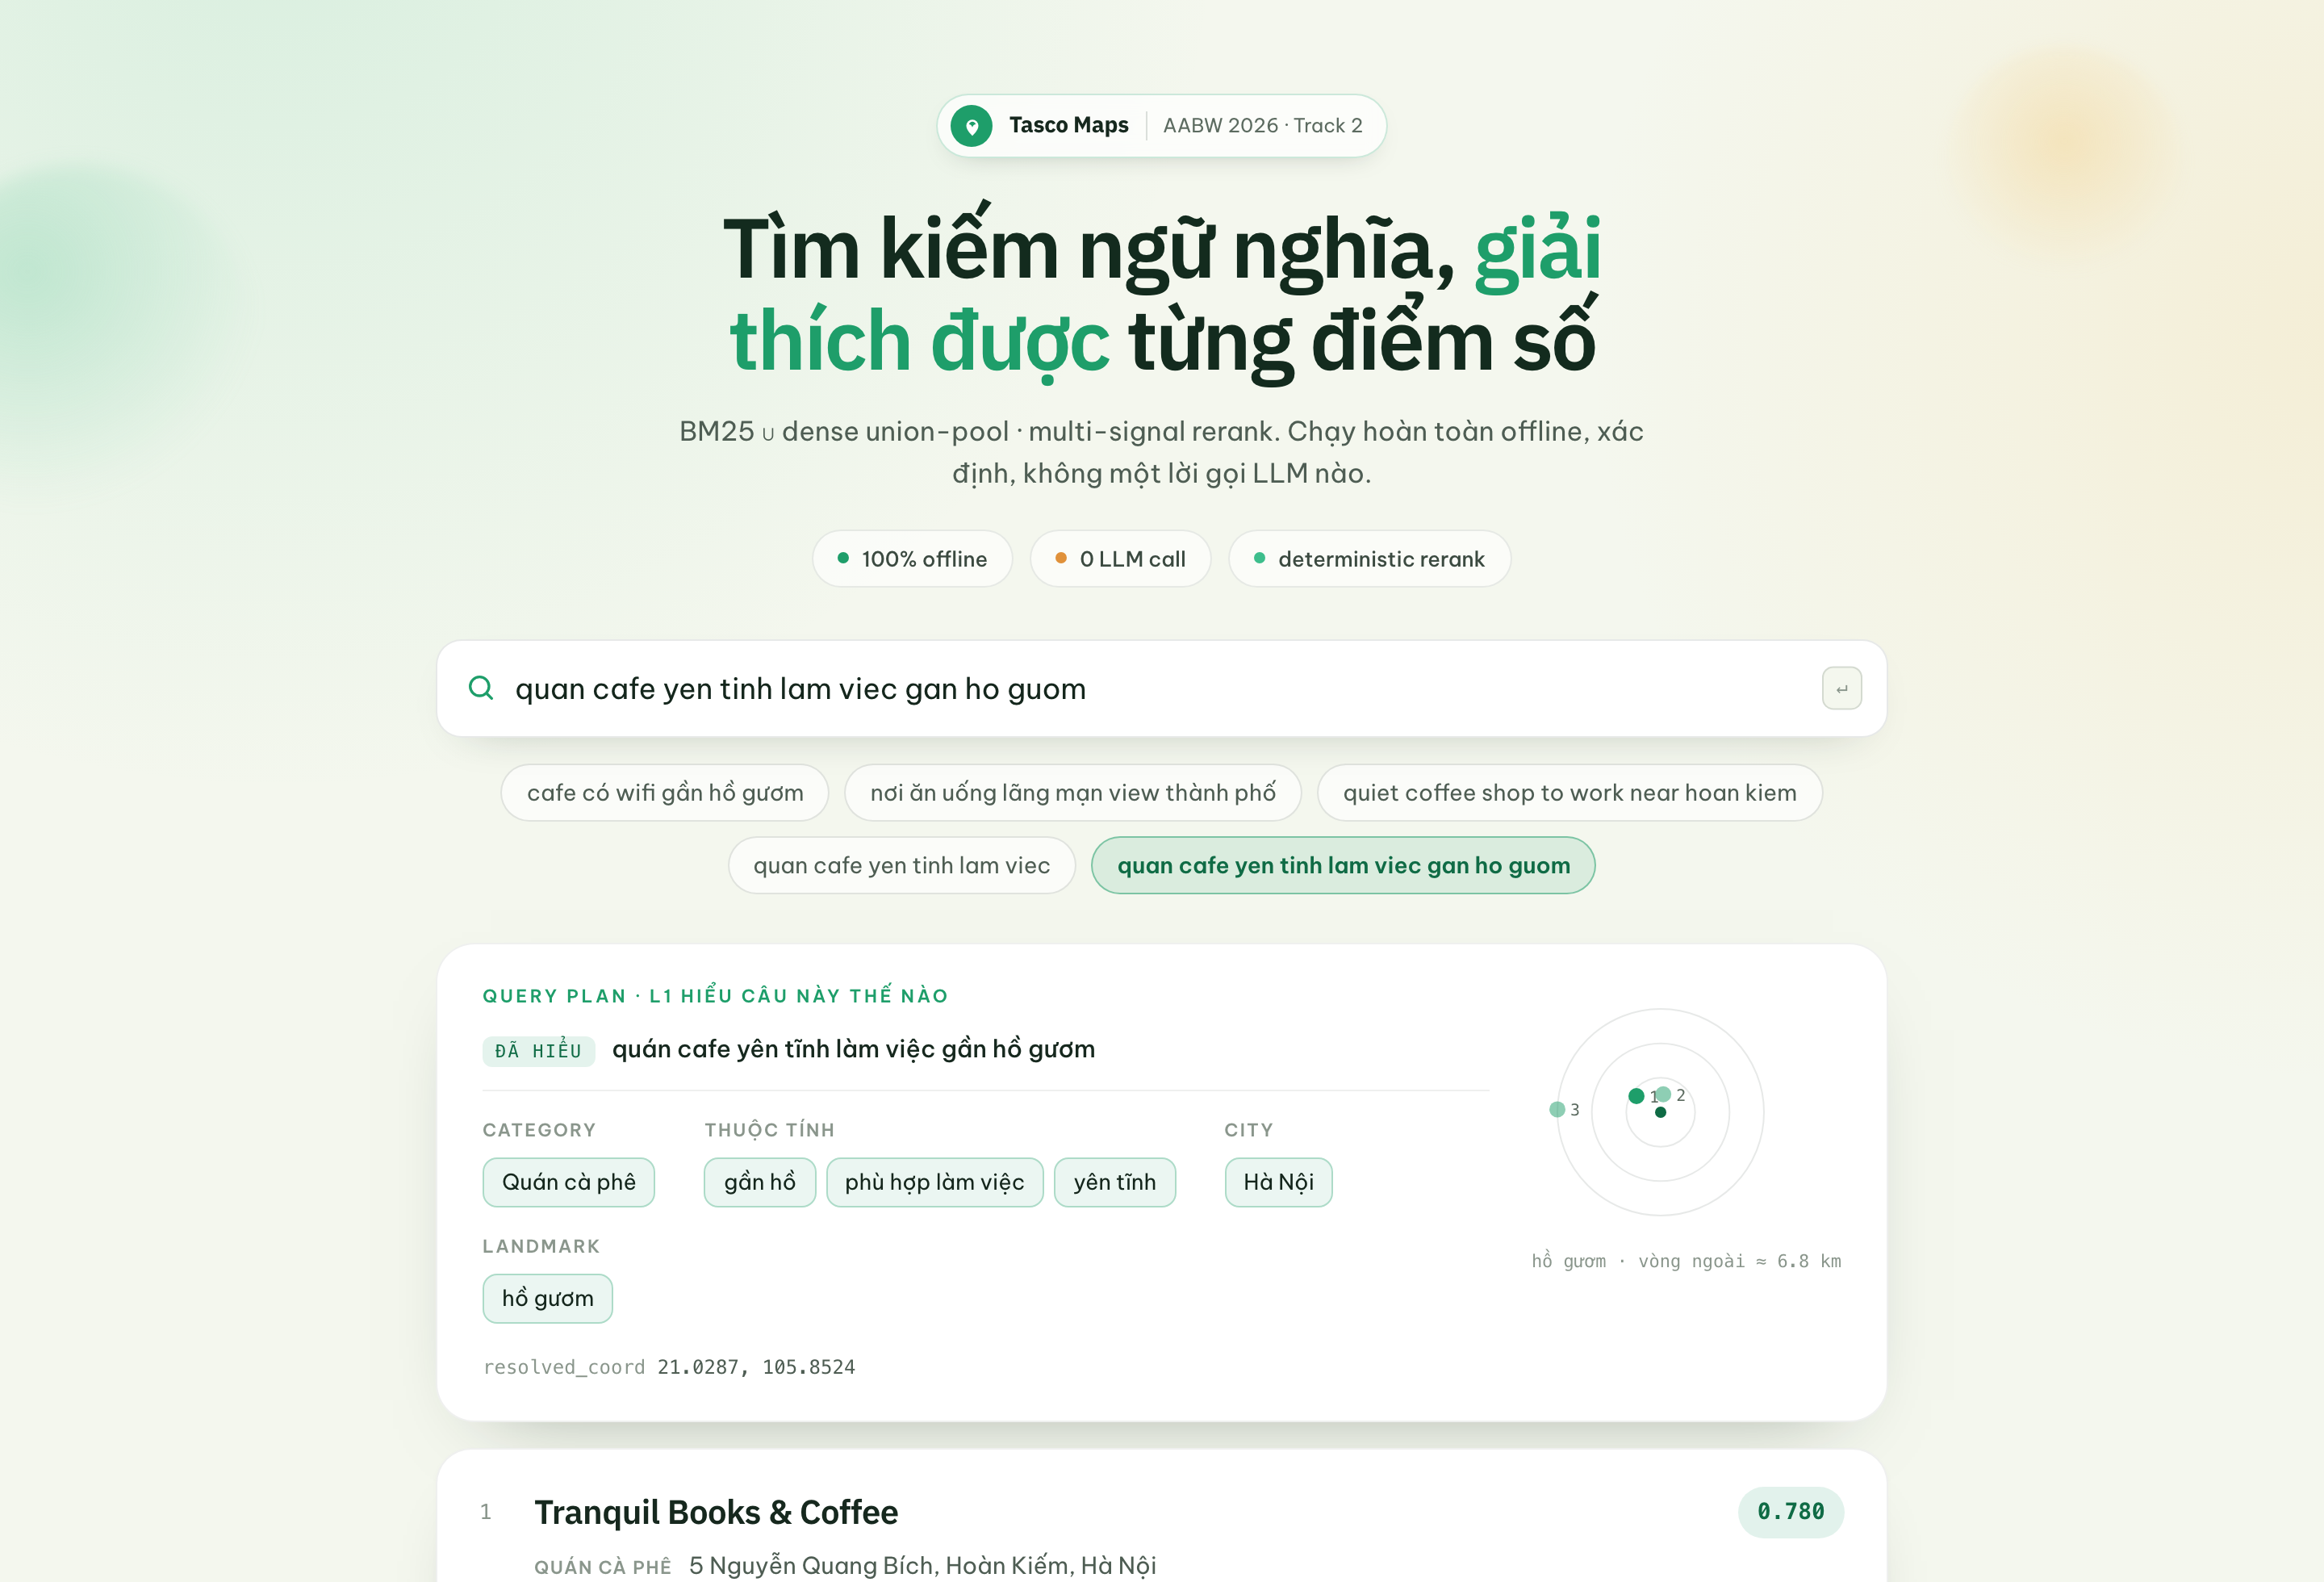
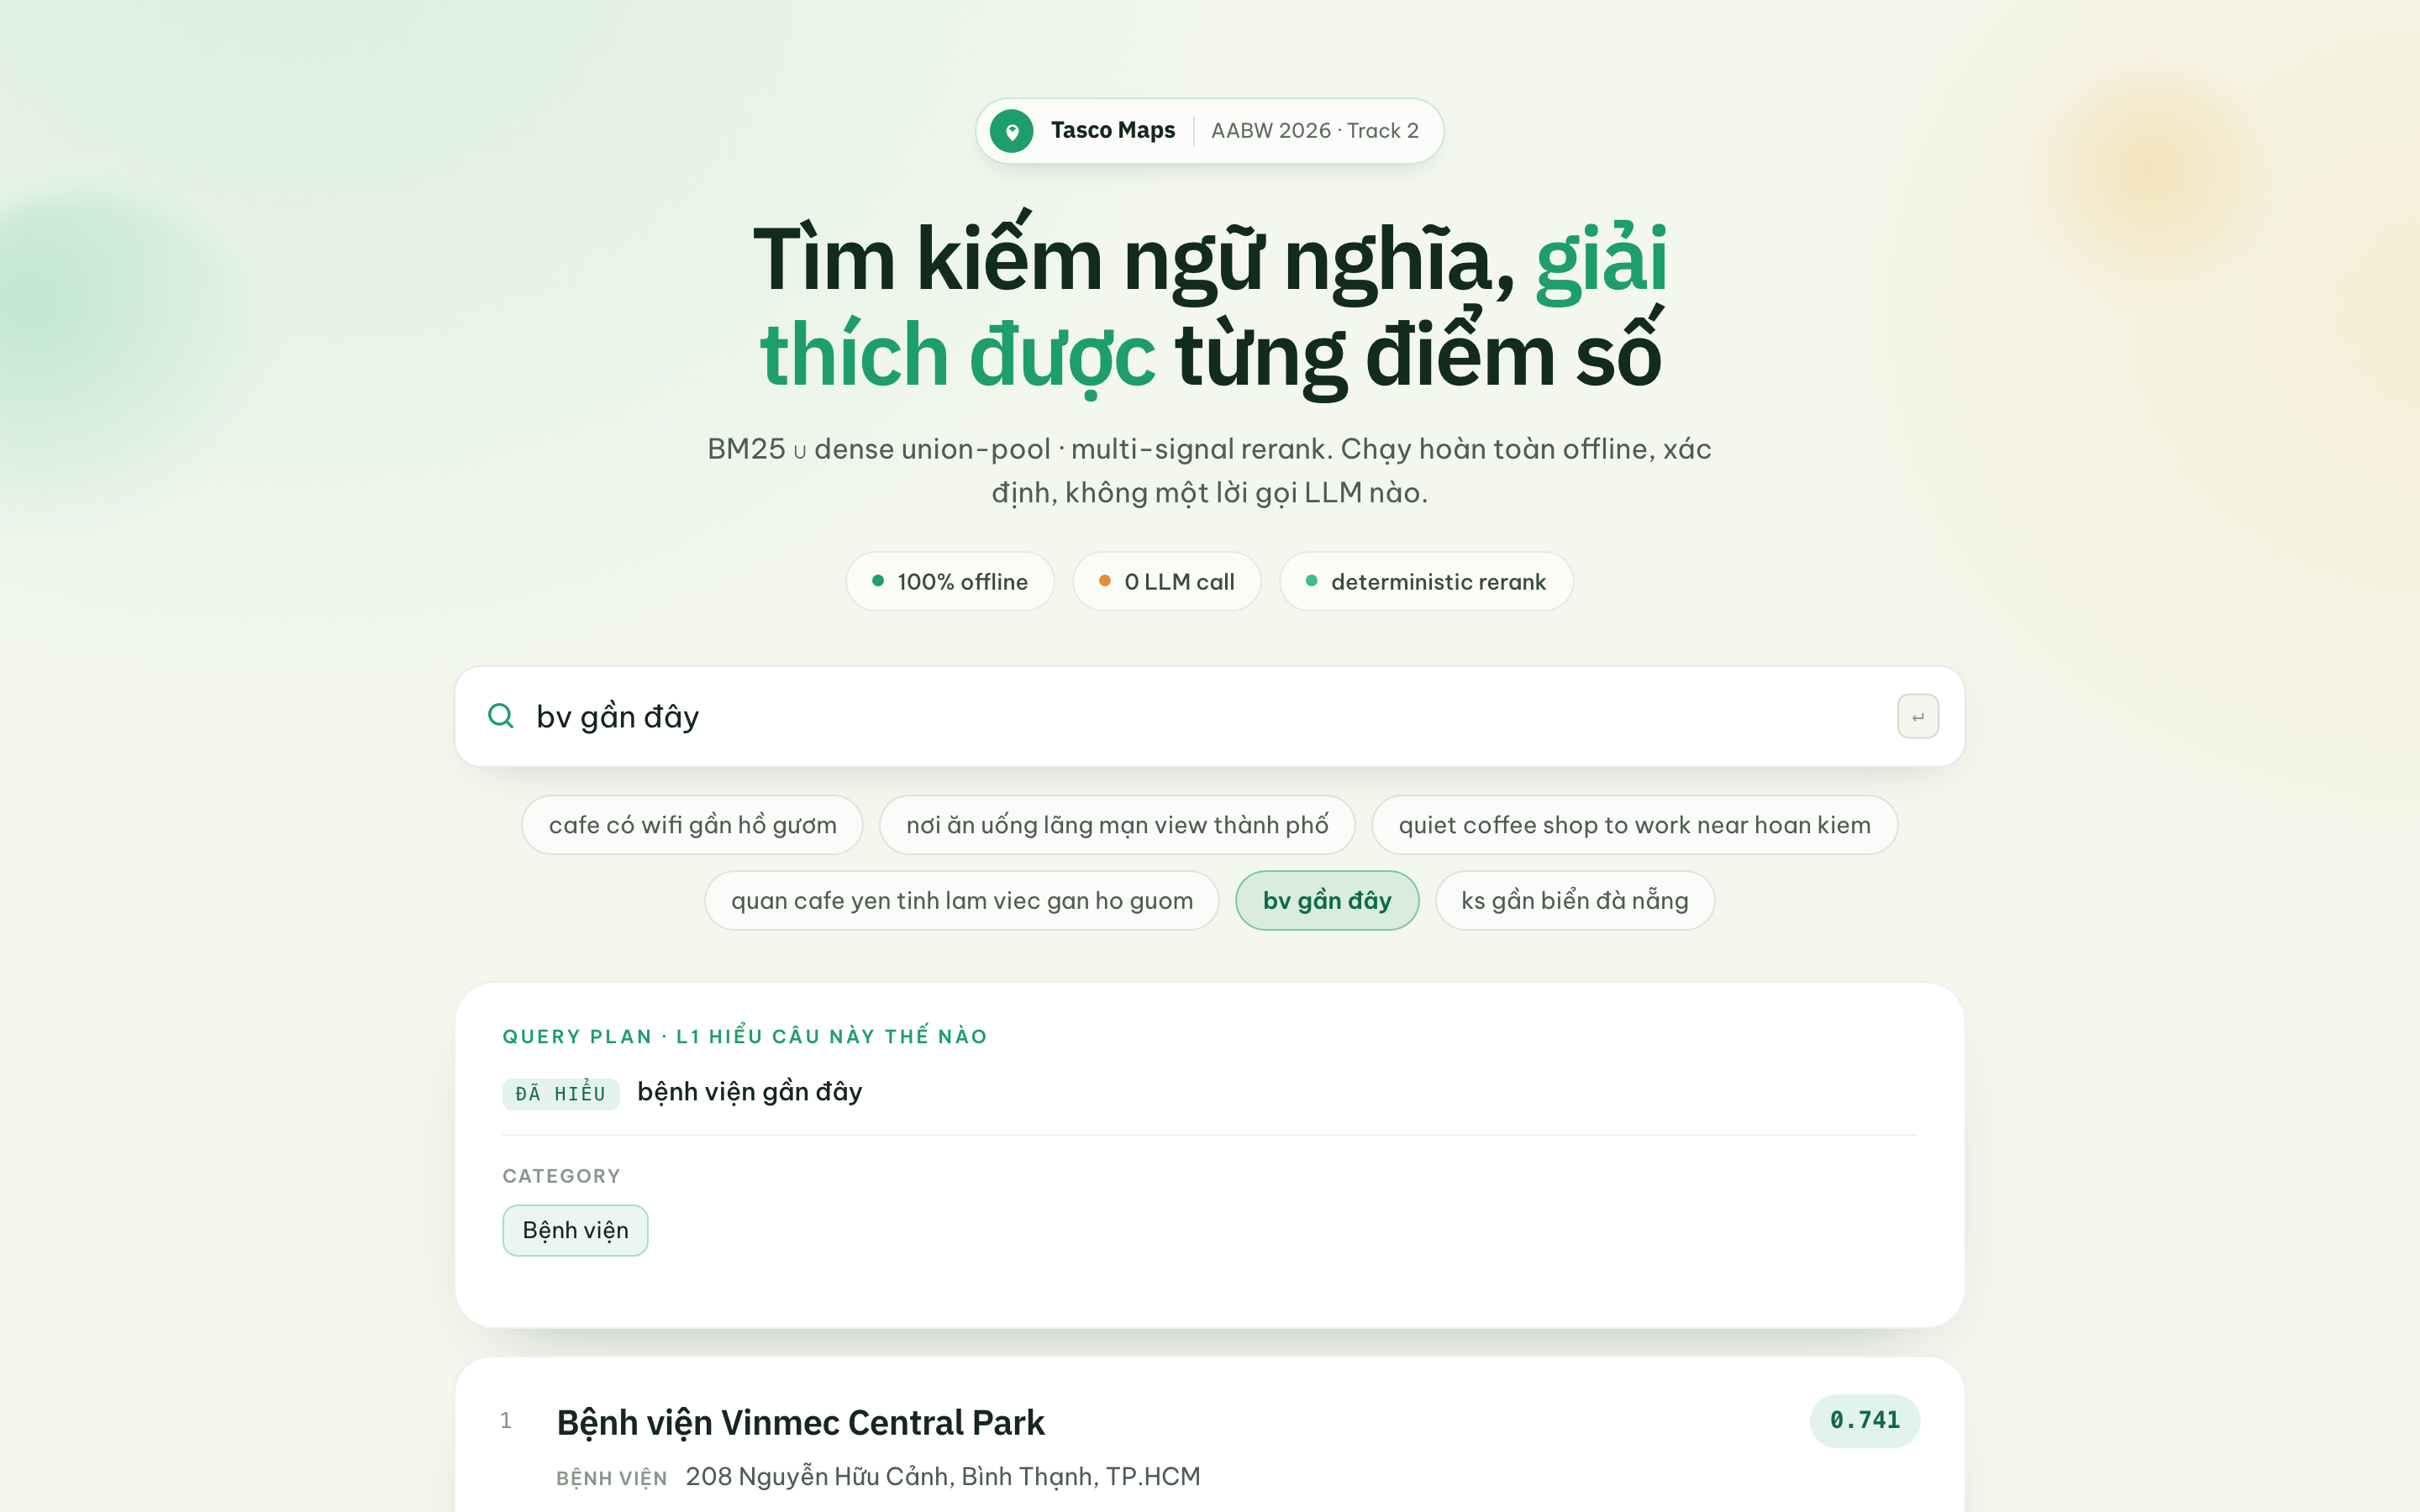
abbreviation expansion + understood-as
- src/understanding/abbreviations.py: viết tắt → dạng đầy đủ CÓ DẤU, bước ĐẦU
  pipeline (khác diacritic restore chỉ-dense: token viết tắt vô nghĩa với cả
  BM25/dense/rules). Whole-word whitelist, case-insensitive; qN → quận N
  (không expand "q" trần); guard vocab từ POI DATA thật — seed va từ thật bị
  loại lúc build map ("hcm" ← "TP.HCM"; rules đã tự bắt hcm làm city).
  Guard cố ý KHÔNG nhìn lexicon surface (chứa chính "tttm" — nhìn cả sẽ tự
  chặn nhầm seed hợp lệ). Ambiguous loại chủ đích: "q" trần, "st", "đh".
- Wire: đầu RerankRetriever (_score_pool cho dense path + search cho path
  không dense) — 1 chỗ, mọi nhánh nhận bản expand; idempotent; POI corpus
  không đụng; KHÔNG đụng BM25/rerank/weights
- explain: field expanded_query (khi khác input); normalized_query giờ =
  restore(expand(q)) → dòng "ĐÃ HIỂU" trên UI tự bắt cả viết tắt
- UI: preset "bv gần đây" + "ks gần biển đà nẵng" (thay chip no-accent cũ
  bằng bản gan-ho-guom bao trùm hơn, giữ 6 chip)
- tests: +expand unit (case-insens, bẫy "bun bo"/"bún bò"/"q1a" nguyên vẹn)
  +retrieval viết tắt (bv→Bệnh viện, ks→H001/H002, cf q1→C001); 11/11
- ĐO: eval 60/60 = 1.000/1.000 NGUYÊN, stress 0.950/0.967 NGUYÊN
  (P035 "in q1" được expand thành "quận 1" — không xê dịch câu nào)

diff --git a/demo/index.html b/demo/index.html
@@ -434,8 +434,9 @@ const PRESETS = [
   "cafe có wifi gần hồ gươm",
   "nơi ăn uống lãng mạn view thành phố",
   "quiet coffee shop to work near hoan kiem",
-  "quan cafe yen tinh lam viec",
   "quan cafe yen tinh lam viec gan ho guom",
+  "bv gần đây",
+  "ks gần biển đà nẵng",
 ];
 const HERO = PRESETS[1];
 

diff --git a/src/understanding/abbreviations.py b/src/understanding/abbreviations.py
@@ -1,0 +1,84 @@
+"""Abbreviation expansion: viết tắt → dạng đầy đủ CÓ DẤU — bước ĐẦU TIÊN của query.
+
+Khác diacritic restore (chỉ nhánh dense): token viết tắt vô nghĩa với CẢ BA
+nhánh (BM25/dense/rules) nên expand TRƯỚC mọi thứ, áp cho query-side ONLY
+(POI corpus không đụng). Bản expand ra chữ có dấu → các lớp sau
+(normalize/diacritic-restore) chạy tiếp bình thường.
+
+Nguyên tắc:
+- WHITELIST curated, match whole-word (\\b), case-insensitive. Không substring.
+- Guard: token trùng MỘT TỪ THẬT trong POI DATA (name/category/description…,
+  đã bỏ dấu) → không expand — chống kiểu "bo"↔"bún bò" nếu sau này thêm seed ẩu.
+  Guard cố ý chỉ nhìn DATA, không nhìn lexicon surface (surface chứa chính các
+  dạng viết tắt như "tttm" — nhìn cả lexicon sẽ tự chặn nhầm seed hợp lệ).
+  Chạy lúc BUILD map: seed va vocab bị loại hẳn (vd "hcm" — "TP.HCM" split ra
+  "hcm"; rules đã tự bắt "hcm" làm city nên bỏ expansion không mất gì).
+- Ambiguous loại khỏi seed có chủ đích: "q" trần (quá nhiều nghĩa — chỉ nhận
+  dạng qN số), "st" (data không có siêu thị), "đh"/"dh" (không có đại học).
+- Deterministic, offline, zero-dep.
+"""
+from __future__ import annotations
+
+import re
+from functools import lru_cache
+
+from src.data_loader import load_pois, normalize_vi
+
+_WORD_RE = re.compile(r"[^\W\d_]+", re.UNICODE)
+
+
+@lru_cache(maxsize=1)
+def _data_vocab() -> frozenset[str]:
+    """Từ đơn (bỏ dấu) xuất hiện trong POI data thật — nguồn guard."""
+    words: set[str] = set()
+    for p in load_pois():
+        for field in (p.name, p.category, p.sub_category, p.district, p.city,
+                      p.address, p.description, " ".join(p.attributes), " ".join(p.tags)):
+            words.update(normalize_vi(w) for w in _WORD_RE.findall(field or ""))
+    return frozenset(words)
+
+# viết tắt → dạng đầy đủ (bám category/city THẬT trong data)
+_SEED: dict[str, str] = {
+    "bv": "bệnh viện",
+    "ks": "khách sạn",
+    "nh": "nhà hàng",
+    "cf": "cà phê",
+    "cfe": "cà phê",
+    "tttm": "trung tâm thương mại",
+    "rp": "rạp phim",
+    "cv": "công viên",
+    "nt": "nhà thuốc",
+    "hn": "Hà Nội",
+    "sg": "Sài Gòn",
+    "tphcm": "thành phố Hồ Chí Minh",
+    "hcm": "Hồ Chí Minh",
+    "dn": "Đà Nẵng",
+    "đn": "Đà Nẵng",
+    "dl": "Đà Lạt",
+    "đl": "Đà Lạt",
+}
+
+# q1/q12 → quận 1/quận 12 (KHÔNG expand "q" trần)
+_Q_DISTRICT = re.compile(r"(?<![a-zA-Z0-9đĐ])[qQ](\d{1,2})(?![a-zA-Z0-9])")
+
+
+@lru_cache(maxsize=1)
+def _rules() -> list[tuple[re.Pattern, str]]:
+    """Compile seed → [(boundary_pattern, full_form)], loại seed va vocab data thật."""
+    vocab = _data_vocab()
+    rules = []
+    for abbr, full in _SEED.items():
+        if normalize_vi(abbr) in vocab:
+            continue  # trùng từ thật trong data (vd "hcm" từ "TP.HCM") — bỏ để an toàn
+        pat = re.compile(rf"(?<![\wđĐ]){re.escape(abbr)}(?![\wđĐ])", re.IGNORECASE)
+        rules.append((pat, full))
+    return rules
+
+
+@lru_cache(maxsize=512)
+def expand_abbreviations(text: str) -> str:
+    """Expand viết tắt whole-word; text không có viết tắt → trả nguyên (idempotent)."""
+    out = _Q_DISTRICT.sub(r"quận \1", text)
+    for pat, full in _rules():
+        out = pat.sub(full, out)
+    return out

diff --git a/tests/test_smoke.py b/tests/test_smoke.py
@@ -96,6 +96,33 @@ def test_restore_diacritics():
     assert "24/7" in r("atm rut tien 24/7 gan pho di bo")
 
 
+def test_abbreviation_expansion():
+    """Viết tắt expand whole-word ở ĐẦU pipeline; từ thật không được biến dạng."""
+    from src.understanding.abbreviations import expand_abbreviations as ex
+
+    assert ex("bv gần đây") == "bệnh viện gần đây"
+    assert ex("cf yên tĩnh q1") == "cà phê yên tĩnh quận 1"
+    assert ex("BV GẦN ĐÂY").lower().startswith("bệnh viện")  # case-insensitive
+    # Bẫy: token trùng từ thật / không phải viết tắt → giữ nguyên tuyệt đối
+    assert ex("bun bo") == "bun bo"
+    assert ex("quán bún bò") == "quán bún bò"
+    assert ex("cafe q1a") == "cafe q1a"  # q1a không phải qN
+
+
+def test_abbreviation_retrieval():
+    """Câu viết tắt phải ra đúng loại POI (path v2 không dense cho nhanh)."""
+    from src.ranking.reranker import RerankRetriever, WEIGHTS_WITH_DISTANCE
+    from src.retrieval.bm25 import BM25Retriever
+
+    pois = load_pois()
+    by_id = {p.id: p for p in pois}
+    r = RerankRetriever(pois, base=BM25Retriever(pois), weights=WEIGHTS_WITH_DISTANCE)
+
+    assert by_id[r.search("bv gần đây", k=3)[0]].category == "Bệnh viện"
+    assert r.search("ks gần biển đà nẵng", k=3)[0] in {"H001", "H002"}
+    assert r.search("cf yên tĩnh q1", k=3)[0] == "C001"
+
+
 def test_no_accent_regression():
     """Câu KHÔNG DẤU phải ra đúng gold — dense mù chỗ này, BM25 (bỏ dấu 2 phía)
     + rules (match trên norm) + district phải gánh. Chạy path v2 (không dense) cho nhanh.

diff --git a/src/search.py b/src/search.py
@@ -17,6 +17,7 @@ from src.ranking.reranker import RerankRetriever
 from src.ranking.signals import haversine_km
 from src.retrieval.bm25 import BM25Retriever
 from src.retrieval.dense import DenseRetriever
+from src.understanding.abbreviations import expand_abbreviations
 from src.understanding.diacritics import restore_diacritics
 from src.understanding.rules import concept_label, extract_plan, landmark_label
 
@@ -69,13 +70,17 @@ class SearchService:
         user_coord = (lat, lon) if lat is not None and lon is not None else None
         ranked = self._reranker.search_explained(query, k=max(limit, k_internal),
                                                  user_coord=user_coord)
-        plan_dict = interpreted = normalized_query = None
+        plan_dict = interpreted = normalized_query = expanded_query = None
         if explain:
-            plan = extract_plan(query)
+            # Chuỗi hiểu câu: expand viết tắt (mọi nhánh) → restore dấu (nhánh dense).
+            # Plan build từ bản ĐÃ expand — khớp đúng thứ reranker nhìn thấy.
+            expanded = expand_abbreviations(query)
+            expanded_query = expanded if expanded != query else None
+            plan = extract_plan(expanded)
             plan_dict = {key: (sorted(v) if isinstance(v, set) else v)
                          for key, v in asdict(plan).items()}
-            # Câu SAU restore dấu (nhánh dense dùng) — UI hiện "Đã hiểu" khi khác input
-            normalized_query = restore_diacritics(query)
+            # Câu "đã hiểu" cuối cùng cho UI: sau expand + restore dấu
+            normalized_query = restore_diacritics(expanded)
             # Plan ở dạng người-đọc-được: concept id → nhãn có dấu
             interpreted = {
                 "categories": sorted(plan.categories),
@@ -95,6 +100,7 @@ class SearchService:
             if explain:
                 hit.explanation = {
                     "plan": plan_dict,
+                    "expanded_query": expanded_query,
                     "normalized_query": normalized_query,
                     "interpreted": interpreted,
                     "signals": {name: round(v, 4) for name, v in row["signals"].items()},

diff --git a/src/ranking/reranker.py b/src/ranking/reranker.py
@@ -7,6 +7,7 @@ from __future__ import annotations
 
 from src.data_loader import POI
 from src.ranking import signals
+from src.understanding.abbreviations import expand_abbreviations
 from src.understanding.rules import extract_plan
 
 # Trọng số mặc định (Bước 1 — chưa distance). bm25 = điểm base đã chuẩn hóa theo max
@@ -93,6 +94,9 @@ class RerankRetriever:
         fallback khi query text không tự resolve được location (landmark/district giữ
         ưu tiên). Eval không truyền → không ảnh hưởng con số eval.
         """
+        # Viết tắt expand Ở ĐÂY — đầu pipeline, TRƯỚC mọi nhánh: bm25/dense/rules
+        # đều nhận bản đầy đủ có dấu. Idempotent (câu không viết tắt → nguyên).
+        query = expand_abbreviations(query)
         n_all = len(self._by_id)
         bm25_all = self._base.search_scored(query, k=n_all)
         dense_all = self._dense.search_scored(query, k=n_all)
@@ -134,6 +138,7 @@ class RerankRetriever:
     def search(self, query: str, k: int = 10) -> list[str]:
         if self._dense is not None:
             return [pid for pid, _, _ in self._score_pool(query)[:k]]
+        query = expand_abbreviations(query)  # path không dense cũng expand đầu pipeline
         plan = extract_plan(query)
         cands = self._candidates(query)
         if not cands: